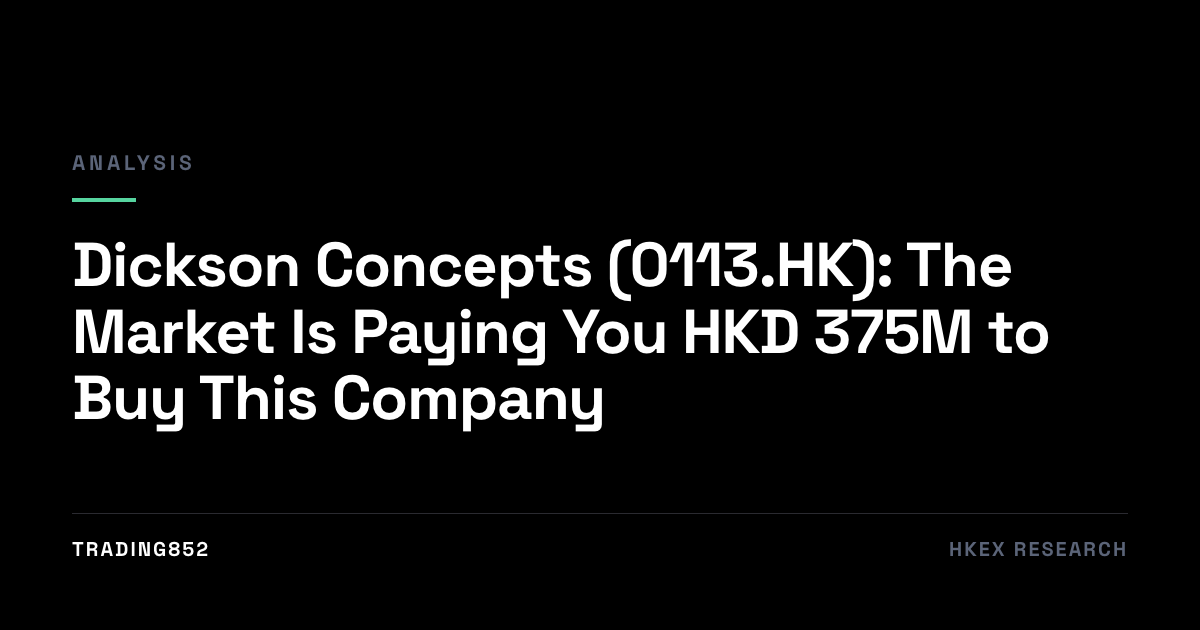
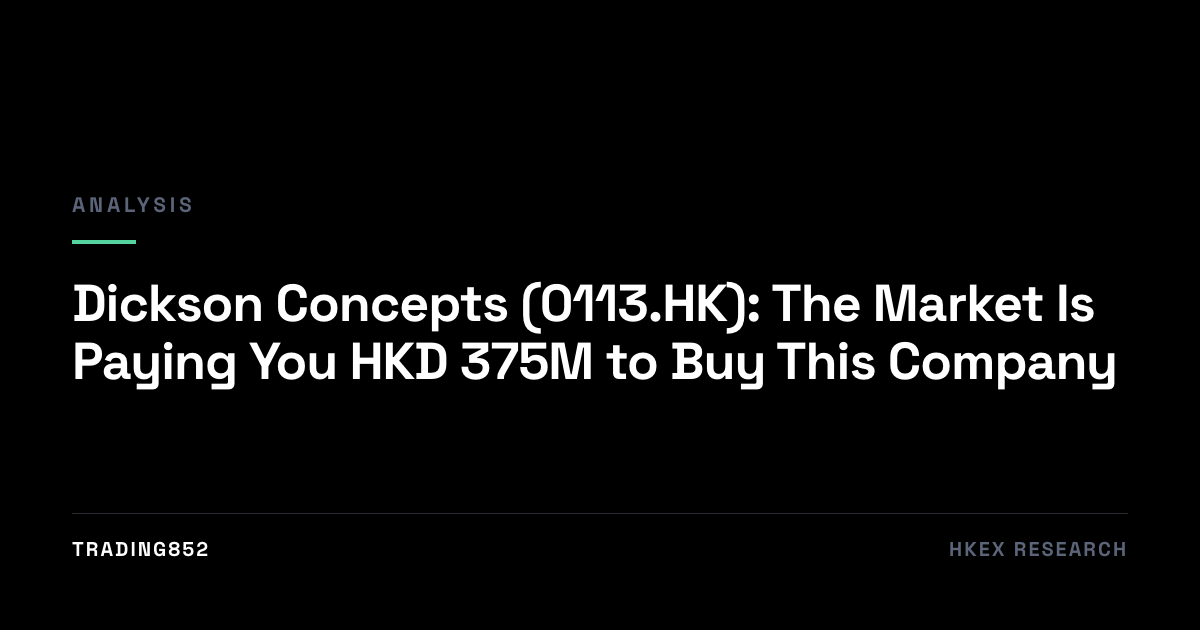
Social cards: drop the headline, X was rendering it twice
X's summary_large_image card shows og:title as its own caption directly
below the image. Our cover already rendered that same headline as an <h1>
inside the image, so every card showed the title twice, once baked into
the picture and once as X's overlay.

Covers now carry only the section eyebrow and contextLine (the one-line
stat), sized larger to fill the space the headline left. X supplies the
headline. Regenerated all 26.

Changed region(s): [[0.0617, 0.3619, 0.9558, 0.6937], [0.0617, 0.3016, 0.1542, 0.3317], [0.0617, 0.2413, 0.1542, 0.2714]]

diff --git a/scripts/make_og.py b/scripts/make_og.py
@@ -38,23 +38,26 @@ def read_config(path):
     return json.loads(m.group(1)) if m else {}
 
 
-def headline_size(title):
-    # ponytail: char-count ramp instead of real text measurement. Titles run
-    # 40-110 chars; if one overflows, add a step rather than a layout engine.
-    n = len(title)
-    if n <= 45:
-        return 92
-    if n <= 70:
+def stat_size(text):
+    # ponytail: char-count ramp instead of real text measurement. contextLine
+    # runs 30-60 chars; if one overflows, add a step rather than a layout engine.
+    n = len(text)
+    if n <= 35:
+        return 88
+    if n <= 48:
         return 74
-    if n <= 95:
+    if n <= 60:
         return 62
     return 52
 
 
 def template(cfg):
-    title = cfg.get("ogTitle") or cfg.get("title") or "Trading852"
+    # X renders og:title as its own caption directly under this image, so the
+    # cover must NOT repeat the headline — that duplicated it on every card.
+    # The cover carries only the sector + the one-line stat; the headline is
+    # X's job.
+    stat = cfg.get("contextLine") or cfg.get("ogTitle") or cfg.get("title") or "Trading852"
     eyebrow = (cfg.get("articleSection") or "Analysis").upper()
-    context = cfg.get("contextLine") or ""
     return f"""<!doctype html><html><head><meta charset="utf-8"><style>
 @font-face {{ font-family: SG; src: url("{FONT}") format("woff2"); font-weight: 700; }}
 @font-face {{ font-family: SG; src: url("{FONT_REG}") format("woff2"); font-weight: 400; }}
@@ -68,8 +71,7 @@ body {{
 .main {{ flex: 1; display: flex; flex-direction: column; justify-content: center; }}
 .eyebrow {{ font-size: 21px; font-weight: 700; letter-spacing: .18em; color: #5b6478; }}
 .rule {{ width: 64px; height: 4px; background: #56d49f; margin: 22px 0 30px; }}
-h1 {{ font-size: {headline_size(title)}px; font-weight: 700; line-height: 1.08; letter-spacing: -.02em; }}
-.context {{ font-size: 26px; font-weight: 400; color: #d6d5db; margin-top: 26px; line-height: 1.35; }}
+.stat {{ font-size: {stat_size(stat)}px; font-weight: 700; line-height: 1.12; letter-spacing: -.02em; }}
 footer {{ display: flex; justify-content: space-between; align-items: baseline;
   font-size: 20px; font-weight: 700; letter-spacing: .1em; color: #5b6478;
   border-top: 1px solid #2a2a30; padding-top: 22px; }}
@@ -78,8 +80,7 @@ footer .brand {{ color: #fff; }}
 <div class="main">
   <div class="eyebrow">{eyebrow}</div>
   <div class="rule"></div>
-  <h1>{title}</h1>
-  {f'<div class="context">{context}</div>' if context else ''}
+  <div class="stat">{stat}</div>
 </div>
 <footer><span class="brand">TRADING852</span><span>HKEX RESEARCH</span></footer>
 </body></html>"""
